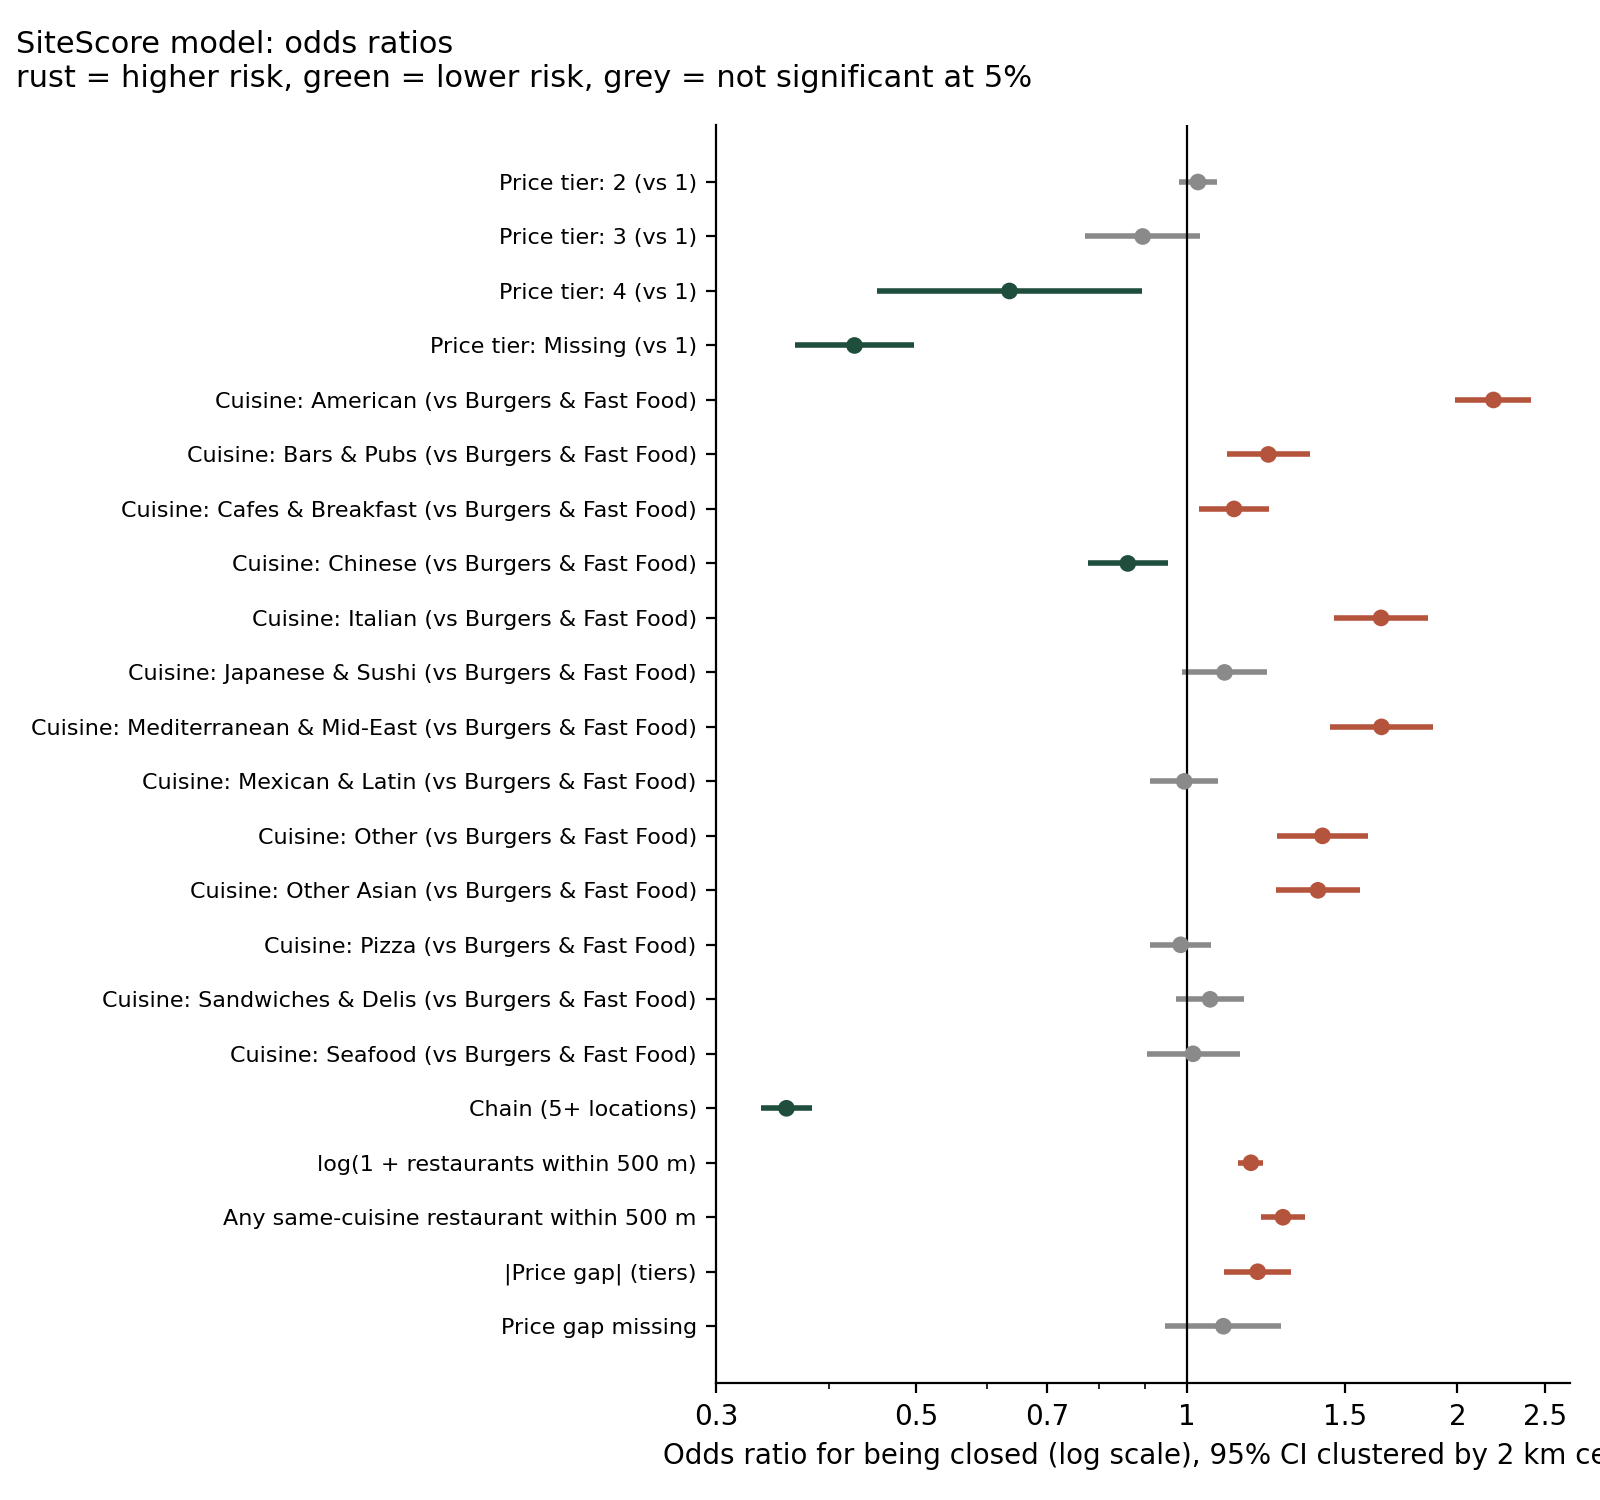
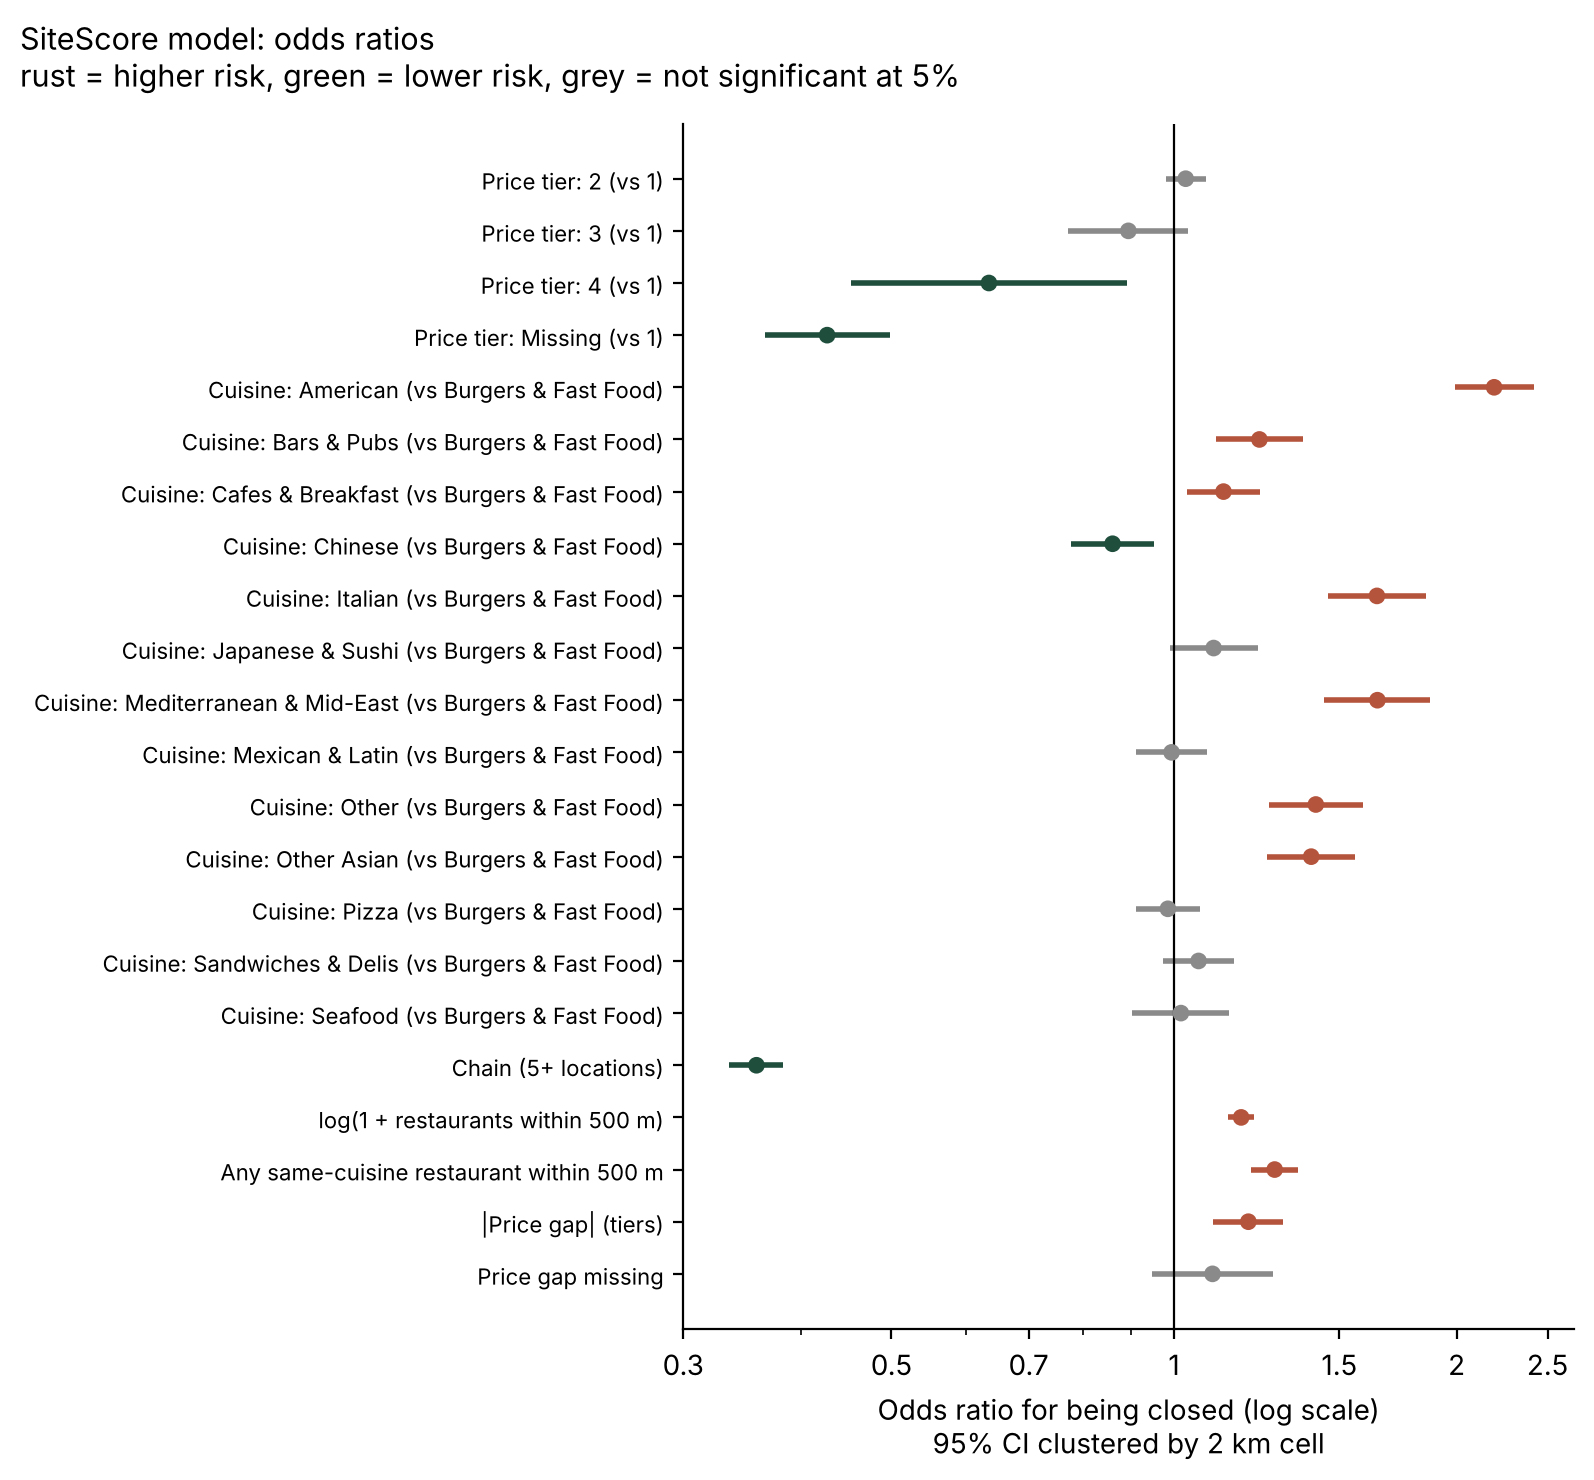
Final SiteScore numbers in README; fix figure label; add Step 8 to notebook 02 intro
- README: findings table now quotes the SiteScore model (notebook 02, Step 8) with
  clustered CIs, plus its forest plot
- odds_ratios_sitescore.png: x-axis label was cut off; regenerated from the run's
  table with the fixed code (savefig bbox_inches='tight', two-line label)
- 02 intro workflow diagram now lists Step 8 and its outputs

Claude-Session: https://claude.ai/code/session_01NunQ811DikXZbjRhdaEExx

diff --git a/README.md b/README.md
@@ -17,16 +17,18 @@ MGSC 661 Multivariate Statistics, McGill University (Fall 2026) · Hasan Malik, 
   <img src="reports/figures/closed_by_density.png" width="49%">
 </p>
 
-**Model (notebook 02).** Holding the other inputs fixed (odds ratios from the logistic regression):
+**Model (notebook 02).** The SiteScore model (Step 8), fitted on all 52,268 restaurants, holding the other inputs fixed:
 
-| Factor | Effect on the odds of being closed |
-|---|---|
-| Chain (5+ locations) vs independent | about 64% lower |
-| Doubling the restaurants within 500 m | about 12–16% higher |
-| Any same-cuisine restaurant within 500 m | about 28% higher |
-| Each price tier away from the neighbourhood average | about 19% higher |
+| Factor | Effect on the odds of being closed | 95% CI (clustered) |
+|---|---|---|
+| Chain (5+ locations) vs independent | 64% lower (OR 0.36) | 0.34–0.38 |
+| Doubling the restaurants within 500 m | 12% higher (OR 1.12) | 1.10–1.15 |
+| Any same-cuisine restaurant within 500 m | 28% higher (OR 1.28) | 1.21–1.35 |
+| Each price tier away from the neighbourhood average | 20% higher (OR 1.20) | 1.10–1.31 |
 
-The ranges cover the model with metro controls (Step 4) and the validated SiteScore model without them (Step 8); the exact SiteScore odds ratios are in Step 8 and `reports/figures/odds_ratios_sitescore.png`.
+Cuisine also matters: American, Italian and Mediterranean restaurants have the highest odds, Chinese the lowest. Price tier itself matters little once location is known. Adding metro controls (Step 4) does not change these conclusions.
+
+<p><img src="reports/figures/odds_ratios_sitescore.png" width="70%"></p>
 
 **Validation (notebook 03).** Trained without Indianapolis and tested on it, the model reaches **AUC 0.687**, versus 0.671 for concept alone and 0.618 for chain status alone. Across all 11 held-out metros AUC ranges from 0.614 to 0.710 (mean 0.672), and predicted risk matches observed closure closely (mean 30.3% predicted vs 31.7% observed). Ranking is weaker among independent restaurants (AUC 0.627). See the [validation summary](docs/validation_summary.md).
 
